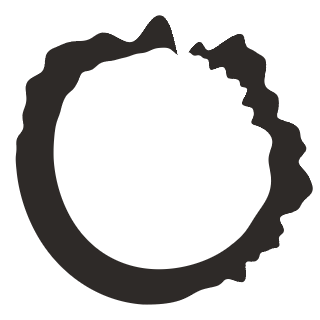
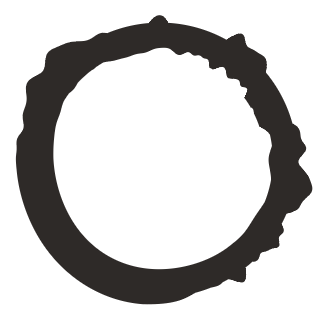
Кружок типа: цвет заливки задаётся из CSS, а не запечён в PNG
Белая серёдка, запечённая в подложку, дралась с цветными плашками
заголовка — на бирюзовом «Симулянте» и золотом «Скрытом кинжале»
кружок выглядел чужеродной нашлёпкой.

Теперь три слоя снизу вверх: белый круг из CSS (::before), поверх него
тон группы, поверх — PNG только с ободом, серёдка полностью прозрачная.
Тон берётся из того же GROUP_TITLE_COLOR, что и плашка заголовка, и
кладётся inline из app.js.

Тон полупрозрачный (0.32 поверх белого). Иначе у оружия, действий,
эффектов и групповых он #2E2A28, и тёмный силуэт на нём просто исчез бы.

inset заливки 10.9% выверен по самому PNG. Край ровного CSS-круга
обязан лежать ПОД ободом: не ближе самого дальнего внутреннего радиуса
(112.8 из 320) и не дальше самого близкого наружного (137.4). Первый
заход дал вывернутое окно — шум по углу уходил до ±3 сигма и радиус
гулял на 39 px при R=142, внутренняя кромка местами оказывалась дальше
наружной. Добавлены ограничители хода, причём асимметричные: наружу
широкий (+14), внутрь узкий (−5). Окно зависит только от самого
близкого наружного радиуса, поэтому выпуклости можно пускать далеко —
рваность от этого только живее.

diff --git a/js/app.js b/js/app.js
@@ -520,6 +520,11 @@ $(function () {
   function buildCard(card) {
     var typeClasses = $.map(card.types, function (t) { return 'type-' + t; }).join(' ');
 
+    // Тон группы. Плашка заголовка у персонажей его не берёт (там
+    // бумажный фон из CSS), а кружку типа он нужен всегда — иначе
+    // заливка осталась бы бесцветной.
+    var groupTint = card.titleBgColor || GROUP_TITLE_COLOR[card.group] || '#2E2A28';
+
     // Внутренний блок арта — маска + заголовок + описание
     var $card = $('<div>', { class: 'card' }).append(
 
@@ -621,6 +626,10 @@ $(function () {
       // Если для группы нет media/<group>.png (например, новая группа без
       // иконки), .on('error') скрывает <img> вместо показа ломаной картинки.
       $('<span>', { class: 'card-group-icon' }).append(
+        // Заливка кружка: белый круг из CSS (::before), поверх него
+        // тон группы. Цвет живёт в стилях, а не запечён в PNG, —
+        // иначе белая серёдка дралась бы с цветными плашками.
+        $('<span>', { class: 'card-group-fill' }).css('background', groupTint),
         $('<img>', {
           class: 'card-group-disc',
           src: 'media/type_disc.png',

diff --git a/styles/card.css b/styles/card.css
@@ -210,6 +210,31 @@
   z-index: 300;
 }
 
+/* Заливка кружка. Слои снизу вверх: белый круг (::before), поверх
+   него тон группы, поверх — рваный обод из PNG и силуэт.
+   inset 11.2% выверен по самому PNG: обод гуляет по радиусу, и край
+   ровной CSS-заливки обязан лежать ПОД ним — не ближе самого дальнего
+   внутреннего радиуса (112.8 из 320) и не дальше самого близкого
+   наружного (137.4). 10.9% — середина этого окна.
+   Тон полупрозрачный: у оружия, действий, эффектов и групповых он
+   #2E2A28, и на нём тёмный силуэт просто исчез бы. */
+.card-group-icon::before,
+.card-group-fill {
+  content: '';
+  position: absolute;
+  inset: 10.9%;
+  border-radius: 50%;
+  display: block;
+}
+
+.card-group-icon::before {
+  background: #fff;
+}
+
+.card-group-fill {
+  opacity: 0.32;
+}
+
 .card-group-disc,
 .card-group-glyph {
   position: absolute;
